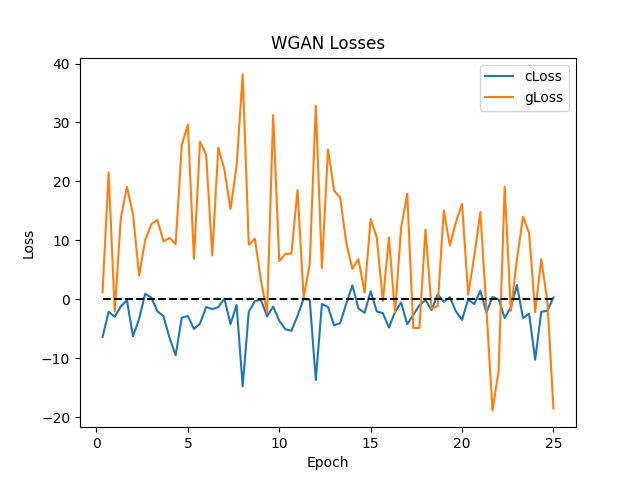
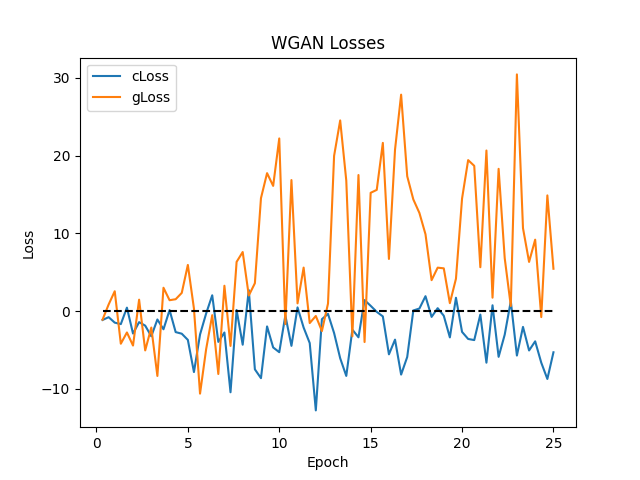
random offsets in training implemented

diff --git a/src/networks/gans/stateFulGan.py b/src/networks/gans/stateFulGan.py
@@ -131,8 +131,14 @@ def train_on_house(gan, house):
     # print("House {}. Used:Omitted = {}:{}".format(house.name, validSize, nOmitted))
     assert validSize > 0
 
-    #randomly choose to omit head or tail
-    windows = windows[nOmitted:] if np.random.randint(0,2) else windows[:validSize]
+    # random offset if some are omitted
+    # randomly choose to omit head or tail
+    if nOmitted:
+        offset = np.random.randint(0, min(CRITIC_TIME_STEPS, nOmitted))
+        windows = windows[nOmitted-offset:-offset] if np.random.randint(0,2) else windows[offset:validSize+offset]
+    else:
+        windows = windows[nOmitted:] if np.random.randint(0,2) else windows[:validSize]
+
 
     windows = np.reshape(
         windows,
@@ -182,7 +188,7 @@ if __name__ == "__main__":
     gan = run_gan(loadGan=loadGan)
     gan.plot_losses_mult_samples_epoch(
         3,
-        None if gv.DEBUG else fp.folder.statefulGanImg + "W0Losses_CriticNoise",
+        None if gv.DEBUG else fp.folder.statefulGanImg + "W0Losses",#_CriticNoise",
         NPREV_EPOCHS_DONE
     )
 
